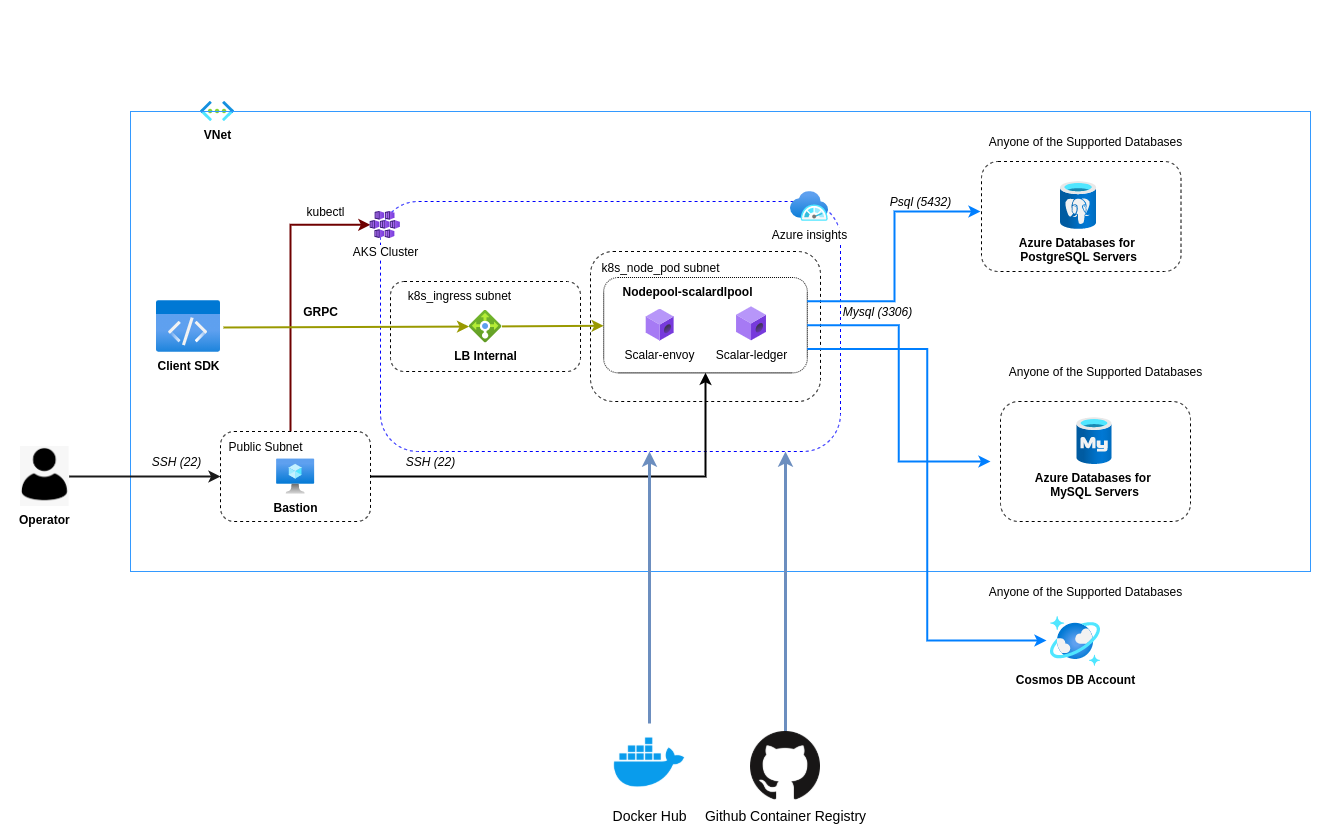
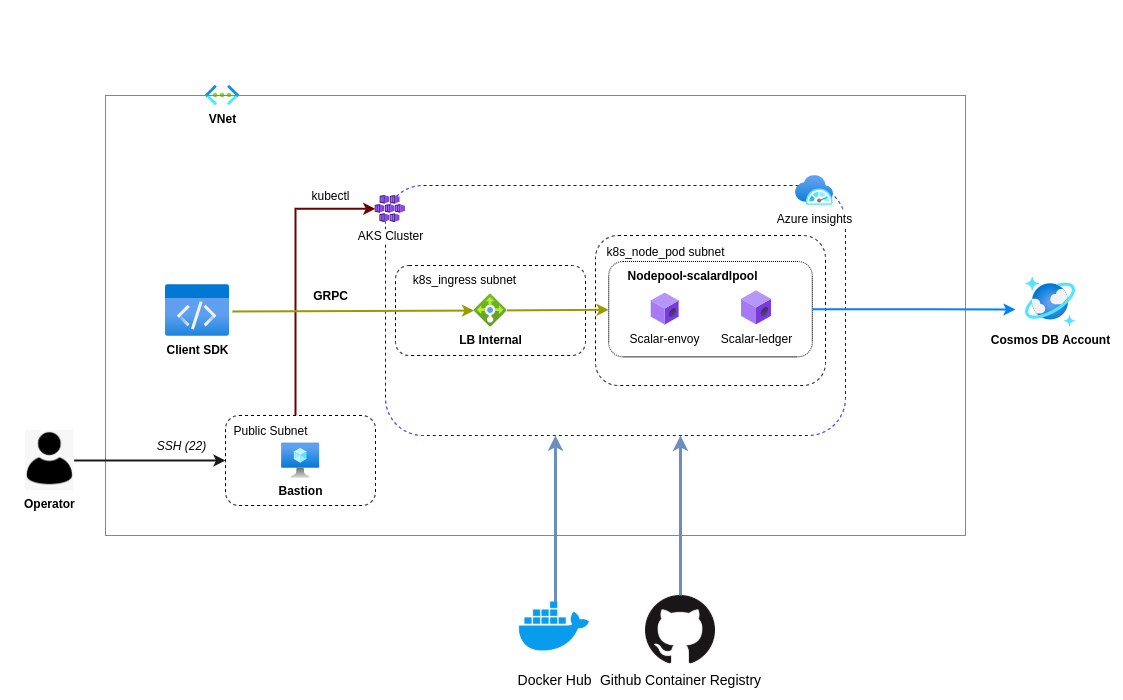
Changed diagram and document revision

diff --git a/docs/ManualDeploymentGuideScalarDLonAzure.md b/docs/ManualDeploymentGuideScalarDLonAzure.md
@@ -2,7 +2,7 @@
 
 Scalar DL is a database-agnostic distributed ledger middleware containerized with Docker. 
 It can be deployed on various platforms and is recommended to be deployed on managed services for production to achieve high availability and scalability, and maintainability. 
-This guide shows you how to manually deploy Scalar DL on a managed database service and a managed Kubernetes service in Azure as a starting point of deploying Scalar DL for production.
+This guide shows you how to manually deploy Scalar DL on a managed database service and a managed Kubernetes service in Azure as a starting point for deploying Scalar DL for production.
 
 ## What we create
 
@@ -30,8 +30,11 @@ This section shows how to configure a secure network for Scalar DL deployments.
 
 ### Recommendations
 
-* Kubernetes should be private in production and should provide secure access with SSH or VPN. 
-* You can use a bastion server as a host machine for secure access to private networks.
+* You should create a bastion server to manage the Kubernetes cluster.
+
+### Procedures
+
+[Create an Azure virtual network](https://docs.microsoft.com/en-us/azure/virtual-network/quick-create-portal) with the above requirements and recommendations along with your organizational or application standards.
 
 ## Step 2. Set up a database
 
@@ -39,9 +42,11 @@ In this section, you will set up a database for Scalar DL.
 
 ### Requirements
 
-*  You must have a database that Scalar DL supports.
+* You must have a database that Scalar DL supports.
 
-Follow the [Set up a database](SetupAzureDatabase.md) document.
+### Procedures
+
+[Set up a database](./SetupAzureDatabase.md) for Scalar DL.
 
 ## Step 3. Configure AKS
 
@@ -49,69 +54,58 @@ This section shows how to configure a Kubernetes service for Scalar DL deploymen
 
 ### Prerequisites
 
-Install the following tools on your host machine:
-
+Install the following tools on your machine for controlling the AKS cluster:
 * [Azure CLI](https://docs.microsoft.com/en-us/cli/azure/install-azure-cli): In this guide, Azure CLI is used to create a kubeconfig file to access the AKS cluster.
 * [kubectl](https://kubernetes.io/docs/tasks/tools/): Kubernetes command-line tool to manage AKS cluster. Kubectl 1.19 or higher is required.
 
 ### Requirements
 
-* You must have an AKS cluster with Kubernetes version 1.19 or above in order to use our most up-to-date configuration files.
-* Kubernetes node pool must be created with the name `scalardlpool` to deploy [ledger](https://github.com/scalar-labs/scalardl) and [envoy](https://www.envoyproxy.io/) pods.
-* You must configure kubernetes access control to `k8s_ingress` subnet.
-* You must create the Kubernetes cluster with `Service principal` as Authentication method.
+* You must have an AKS cluster with Kubernetes version 1.19 or higher for Scalar DL deployment.
+* You must create a Kubernetes node pool with the name `scalardlpool` for Scalar DL deployment.
+* You must configure Kubernetes access control to the `k8s_ingress` subnet.
+* You must create the Kubernetes cluster with `Service principal` as the Authentication method.
 * You must create the Kubernetes cluster with `Azure CNI`.
 
 ### Recommendations
 
-* Kubernetes node size should be `Standard D2s v3` to deploy the ledger and envoy pods because each node requires 2 vCPUs and 8 GiB of memory for deploying ledger and envoy pods.
-* Node pool should have at least 3 nodes for high availability in production.
+* You should use Kubernetes node size `Standard D2s v3` for Scalar DL node pool.
+* You should create 3 nodes in each node group for high availability in the production.
 
-### Create a Kubernetes Cluster
+### Procedures
 
-Create a Kubernetes cluster with a node pool to deploy the ledger and envoy. This section will help you to create an AKS cluster.
+Create an AKS cluster with a node pool to deploy the Scalar DL.
 
-[Create an AKS cluster](https://docs.microsoft.com/en-us/azure/aks/kubernetes-walkthrough-portal#create-an-aks-cluster) with the above requirements and recommendations.
-
+* [Create an AKS cluster](https://docs.microsoft.com/en-us/azure/aks/kubernetes-walkthrough-portal#create-an-aks-cluster) with the above requirements and recommendations.
 * Configure kubectl to connect to your Kubernetes cluster using the `az aks get-credentials` command. 
-The following command downloads credentials and configures the Kubernetes CLI to use them from the host machine.
 
-```
-$ az aks get-credentials --resource-group myResourceGroup --name myAKSCluster
-```
+    ```console
+    $ az aks get-credentials --resource-group myResourceGroup --name myAKSCluster
+    ```
 
 ## Step 4. Install Scalar DL
 
-After creating Kubernetes cluster next step is to deploy Scalar DL into the AKS cluster. 
-This section shows how to install Scalar DL to the AKS cluster with Helm charts.
+After creating the Kubernetes cluster next step is to deploy Scalar DL into the AKS cluster. 
+This section shows how to install Scalar DL to the AKS cluster with [Helm charts](https://github.com/scalar-labs/helm-charts).
 
 ### Prerequisites
 
-Install the following tool on your host machine:
+Install the helm tool on your machine to deploy helm-charts:
 
 * [helm](https://helm.sh/docs/intro/install/): helm command-line tool to manage releases in the AKS cluster. In this tutorial, it is used to deploy Scalar DL and Schema loading helm charts to the AKS cluster. Helm version 3.2.1 or latest is required. 
 
 ### Requirements
 
-* You must have the authority to pull scalar-ledger and scalardl-schema-loader container images.
+* You must have the authority to pull `scalar-ledger` and `scalardl-schema-loader` container images.
 * You must configure the database properties in the helm chart custom values file.
-* You must confirm that replica count of the ledger and envoy pods in the `scalardl-custom-values.yaml` file is equal to the number of nodes with `agentpool=scalardl` label.
+* You must confirm that the replica count of the ledger and envoy pods in the `scalardl-custom-values.yaml` file is equal to the number of nodes in the Scalar DL node pool.
 
-### Deploy Scalar DL
+### Procedures
 
 Following steps will help you to install Scalar DL on AKS:
 
 1. Download the following Scalar DL configuration files and update the database configuration in `scalarLedgerConfiguration` and `schemaLoading` sections
     * [scalardl-custom-values.yaml](https://raw.githubusercontent.com/scalar-labs/scalar-kubernetes/master/conf/scalardl-custom-values.yaml)
     * [schema-loading-custom-values.yaml](https://raw.githubusercontent.com/scalar-labs/scalar-kubernetes/master/conf/schema-loading-custom-values.yaml)
-
-      ```console
-        # Scalar DL database configuration  
-        database: cosmos
-        contactPoints: <COSMOS_DB_ACCOUNT_URI>
-        password: <COSMOS_DB_KEY>
-        cosmosBaseResourceUnit: 400
-        ```        
 
 2. Create the docker-registry secret for pulling the Scalar DL images from the GitHub registry
     
@@ -152,15 +146,17 @@ This section shows how to configure monitoring and logging for your AKS cluster.
 
 * Monitoring should be enabled for AKS in production.
 
-### Set up container insights for AKS cluster
+### Procedures
 
-Enable container insights for monitoring. 
+* [Enable monitoring of Azure Kubernetes Service](https://docs.microsoft.com/en-us/azure/azure-monitor/containers/container-insights-enable-existing-clusters) document.
 
-Follow the [Enable monitoring of Azure Kubernetes Service (AKS) cluster already deployed](https://docs.microsoft.com/en-us/azure/azure-monitor/containers/container-insights-enable-existing-clusters) document.
+## Step 6. Checklist for confirming Scalar DL deployments
 
 After the Scalar DL deployment, you need to confirm that deployment has been completed successfully. This section will help you to confirm the deployment.
 
 ### Confirm Scalar DL deployment
+
+* Make sure the schema is properly created in the underlying database service.
 
 * You can check if the pods and the services are properly deployed by running the `kubectl get po,svc,endpoints -o wide` command on the host machine.
     * You should confirm the status of all ledger and envoy pods are `Running`.
@@ -190,8 +186,6 @@ After the Scalar DL deployment, you need to confirm that deployment has been com
     endpoints/my-release-scalardl-ledger-headless   10.2.0.45:50051,10.2.0.51:50051,10.2.0.62:50051 + 6 more...   2m29s
     ```
 
-* Make sure the schema is properly created in the underlying database service.
-
 ### Confirm AKS cluster monitoring
 
 * Follow the document to confirm the [Cluster insights](https://docs.microsoft.com/en-us/azure/azure-monitor/containers/container-insights-overview#how-do-i-access-this-feature).
@@ -200,7 +194,14 @@ After the Scalar DL deployment, you need to confirm that deployment has been com
 
 * Follow the document to confirm the [Monitor Azure Cosmos DB](https://docs.microsoft.com/en-us/azure/cosmos-db/monitor-cosmos-db).
 
-## Uninstall Scalar DL
+## Wipe out the Resources
+
+Resources should be removed in the following order
+
+* Uninstall Scalar DL installation
+* Remove the Resource group
+
+### Uninstall Scalar DL
 
 You can uninstall Scalar DL installation with the following helm commands:
 
@@ -211,3 +212,8 @@ You can uninstall Scalar DL installation with the following helm commands:
     # Uninstall Scalar DL with a release name 'my-release-scalardl'
     $ helm delete my-release-scalardl
    ```
+### Destroy the Environment
+
+You can remove the environment using the following steps
+
+* Remove [Resource group](https://docs.microsoft.com/en-us/azure/azure-resource-manager/management/delete-resource-group?tabs=azure-powershell#delete-resource-group)

diff --git a/docs/SetupAzureDatabase.md b/docs/SetupAzureDatabase.md
@@ -11,7 +11,28 @@ You need to create a Cosmos DB account for Scalar DL. In this section, you will 
 * You must create a Cosmos DB account with `Core(SQL)` API.
 * You must change Cosmos DB `Default consistency` to `Strong`.
 
+### Procedures
+
 [Create an Azure Cosmos DB account](https://docs.microsoft.com/en-us/azure/cosmos-db/create-cosmosdb-resources-portal#create-an-azure-cosmos-db-account) with the above requirements.
+
+### Configure Scalar DL 
+
+To deploy Schema loading with DynamoDB, update the following configuration in [schema-loading-custom-values](https://github.com/scalar-labs/scalar-kubernetes/blob/master/conf/schema-loading-custom-values.yaml)
+
+```yaml
+database: cosmos
+contactPoints: <Cosmos DB account endpoint>
+password: <Cosmos DB account primary master key>
+cosmosBaseResourceUnit: 400
+```
+
+To deploy Scalar DL with DynamoDB, update the following configuration in [scalardl-custom-values](https://github.com/scalar-labs/scalar-kubernetes/blob/master/conf/scalardl-custom-values.yaml) 
+
+```yaml
+dbContactPoints: <Cosmos DB account endpoint>
+dbPassword: <Cosmos DB account primary master key>
+dbStorage: cosmos
+```
 
 ### Scale Performance
 
@@ -19,14 +40,14 @@ Cosmos DB performance can be adjusted using the following parameters
 
 #### Request Units (RU)
 
-You can scale the throughput of Cosmos DB by specifying cosmosBaseResourceUnit (which applies to all the tables) in schema-loading-custom-values.yaml file. 
+You can scale the throughput of Cosmos DB by specifying cosmosBaseResourceUnit (which applies to all the tables) in `schema-loading-custom-values.yaml` file. 
 Scalardl schema tool abstracts Capacity Unit of Cosmos DB with RU.
 
 #### Auto-scaling
 
 By default, the scalardl schema tool enables auto-scaling of RU for all tables: RU is scaled in or out between 10% and 100% of a specified RU depending on a workload.
 
-For example, if you specify RU 10000, RU of each table is scaled in or out between 1000 and 10000.
+By default, the scalardl schema tool enables auto-scaling of RU for all tables: RU is scaled in or out between 10% and 100% of a specified RU depending on a workload.
 
 ### Monitor Cosmos DB
 
